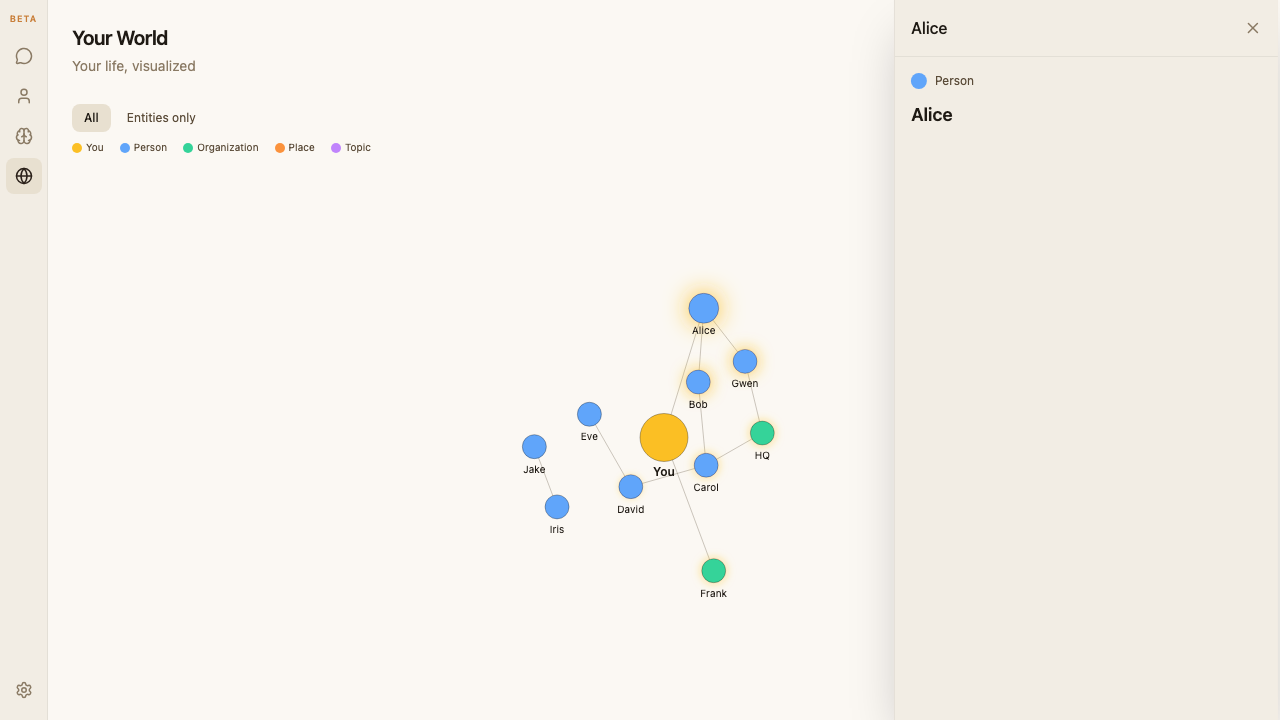
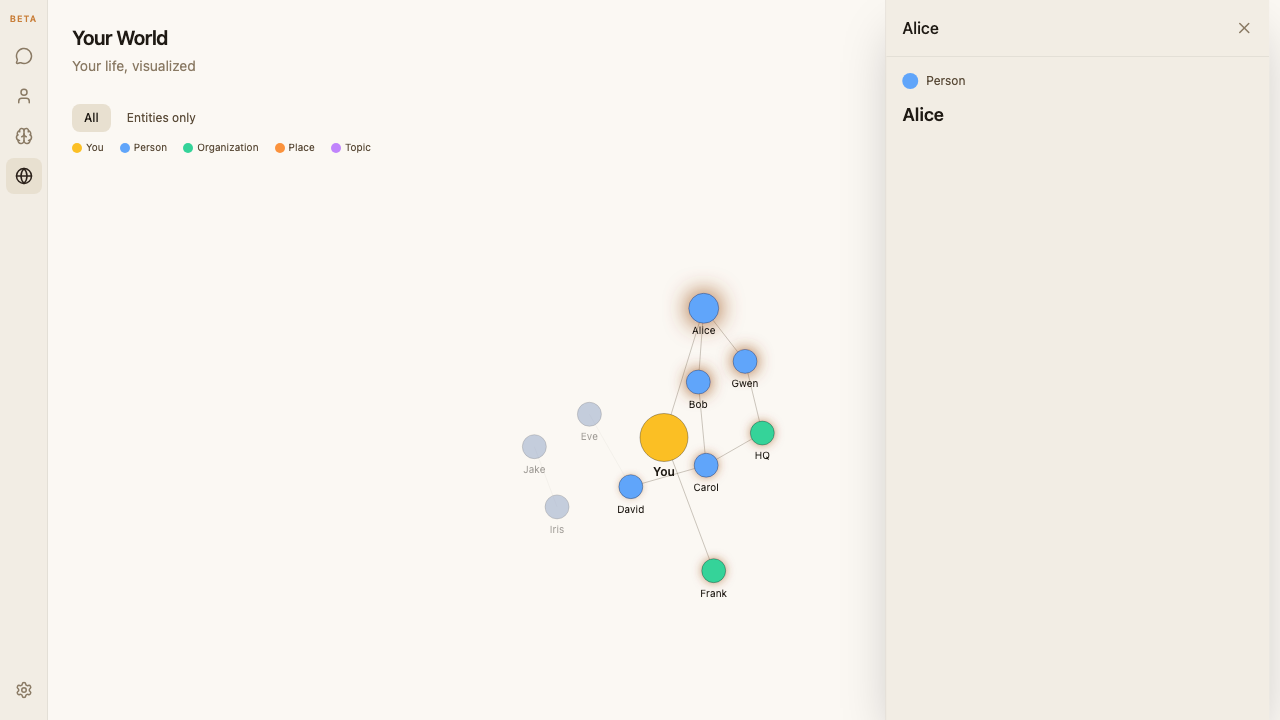
feat(world): make glow pop — theme-aware color + dim non-highlighted nodes
Feedback on first F4 pass (641b176):

  1. Light-mode (warm cream vault): yellow #fbbf24 glow was invisible
     on the cream background. Fix: added --graph-glow-color CSS var
     with a dark amber (#92400e / amber-800) override in
     vault-theme-warm.css. Dark mode keeps the bright yellow. ForceGraph
     reads the var at filter-setup time via getComputedStyle so both
     themes get an appropriate high-contrast halo.

  2. Dark-mode: highlighted nodes needed more separation from the rest
     of the graph — the additive glow alone didn't jump. Fix: added a
     dim FILTER (feColorMatrix saturate 0.35) + reduced opacity (0.5)
     on all non-highlighted nodes when a highlight is active. Colors
     still read as their hue (blue is still blue, orange still orange)
     but visibly step back so the lit subgraph pops. Labels dim to 0.4
     opacity; edges dim to 15% of their base stroke-opacity unless
     BOTH endpoints are in the lit cluster (edge-inside-cluster stays
     bright).

  DIM_STATE lives alongside GLOW_TIERS in graph-highlight.js — tunable
  in one place. "you" is never dimmed / never gets a filter regardless
  of highlight state.

Files:

  src/styles/vault-theme-warm.css
    Add --graph-glow-color: #92400e (amber-800) for cream backdrop.

  src/lib/graph-highlight.js
    New exports: DIM_FILTER_ID, DIM_STATE ({saturation, opacity,
    labelOpacity, edgeOpacityMultiplier}).

  src/components/vault/world/ForceGraph.jsx
[…]

diff --git a/src/components/vault/world/ForceGraph.jsx b/src/components/vault/world/ForceGraph.jsx
@@ -4,7 +4,7 @@ import { select } from 'd3-selection'
 import { zoom as d3Zoom, zoomIdentity } from 'd3-zoom'
 import { forceSimulation, forceManyBody, forceCenter, forceCollide, forceLink, forceX, forceY } from 'd3-force'
 import { drag as d3Drag } from 'd3-drag'
-import { glowTierForDistance, GLOW_TIERS, GLOW_COLOR } from '../../../lib/graph-highlight'
+import { glowTierForDistance, GLOW_TIERS, GLOW_COLOR, DIM_FILTER_ID, DIM_STATE } from '../../../lib/graph-highlight'
 import { computeNodeRadius } from '../../../lib/graph-node-size'
 
 const TYPE_COLORS = {
@@ -55,11 +55,20 @@ export default function ForceGraph({ nodes, edges, onNodeClick, width, height, h
     const svg = select(svgRef.current)
     svg.selectAll('*').remove()
 
-    // ── SVG <defs> with drop-shadow glow filters, one per highlight tier.
-    // Tier 0 = clicked node (brightest, largest halo); tier 3 = 3° neighbour
-    // (subtle). No opacity or dimming anywhere — non-highlighted nodes just
-    // render without a filter so the rest of the graph stays fully legible.
+    // ── SVG <defs> with two families of filters:
+    //   1. Drop-shadow glow, one per highlight tier — applied to the
+    //      clicked node + its 1° / 2° / 3° neighbours. Glow color reads
+    //      --graph-glow-color from the active theme (yellow on dark
+    //      navy, deep amber on warm cream) so the halo pops on both.
+    //   2. A single "dim" filter applied to every non-highlighted node
+    //      when a highlight is active — desaturates the fill so the
+    //      graph visibly steps back and the glowing subgraph pops.
+    //      Non-highlighted nodes also get their opacity reduced (in the
+    //      highlight useEffect) for extra separation.
     const defs = svg.append('defs')
+    const glowColor = (
+      getComputedStyle(svgRef.current).getPropertyValue('--graph-glow-color').trim() || GLOW_COLOR
+    )
     GLOW_TIERS.forEach((tier) => {
       const filter = defs.append('filter')
         .attr('id', tier.id)
@@ -68,9 +77,17 @@ export default function ForceGraph({ nodes, edges, onNodeClick, width, height, h
       filter.append('feDropShadow')
         .attr('dx', 0).attr('dy', 0)
         .attr('stdDeviation', tier.stdDeviation)
-        .attr('flood-color', GLOW_COLOR)
+        .attr('flood-color', glowColor)
         .attr('flood-opacity', tier.floodOpacity)
     })
+    // Dim filter for non-highlighted nodes: desaturates the fill so
+    // the color still reads as blue / orange / etc but visibly steps
+    // back from full saturation.
+    defs.append('filter')
+      .attr('id', DIM_FILTER_ID)
+      .append('feColorMatrix')
+      .attr('type', 'saturate')
+      .attr('values', String(DIM_STATE.saturation))
 
     // Root group for zoom/pan
     const g = svg.append('g')
@@ -194,20 +211,55 @@ export default function ForceGraph({ nodes, edges, onNodeClick, width, height, h
     }
   }, [nodes, edges, width, height, onNodeClick, onBackgroundClick])
 
-  // Highlight effect — glow-based, not opacity. Applies a drop-shadow
-  // <filter> to nodes within the highlight radius (tier by distance);
-  // everything else keeps its default appearance (no dim, no fade).
+  // Highlight effect — dual filter: glow for the clicked node + its
+  // 1° / 2° / 3° neighbours, dim for everything else so the lit
+  // subgraph visibly pops. When no highlight is active, every node
+  // returns to its native appearance (no filter, full opacity).
   useEffect(() => {
     if (!svgRef.current) return
     const svg = select(svgRef.current)
+    const active = highlightDistances != null
 
     svg.selectAll('circle')
       .attr('filter', function (d) {
-        // "you" is always visible in its native color — no glow even on click
-        // (though onNodeClick guards against clicking "you" anyway).
-        if (!d || d.id === 'you') return null
+        if (!d || d.id === 'you') return null   // "you" is never dimmed
+        if (!active) return null
         const tier = glowTierForDistance(highlightDistances, d.id)
-        return tier === null ? null : `url(#${GLOW_TIERS[tier].id})`
+        if (tier !== null) return `url(#${GLOW_TIERS[tier].id})`
+        return `url(#${DIM_FILTER_ID})`
+      })
+      .attr('opacity', function (d) {
+        if (!d || d.id === 'you') return 1
+        if (!active) return 1
+        const tier = glowTierForDistance(highlightDistances, d.id)
+        return tier === null ? DIM_STATE.opacity : 1
+      })
+
+    // Labels + edges also step back so the lit subgraph reads as a
+    // clean cluster. Labels: opacity only (glow on text looks messy).
+    // Edges: dim to a fraction of their normal stroke-opacity unless
+    // BOTH endpoints are in the highlight radius (edge-inside-cluster).
+    svg.selectAll('text')
+      .attr('opacity', function (d) {
+        if (!d || d.id === 'you') return 1
+        if (!active) return 1
+        const tier = glowTierForDistance(highlightDistances, d.id)
+        return tier === null ? DIM_STATE.labelOpacity : 1
+      })
+
+    svg.selectAll('line')
+      .attr('stroke-opacity', function (d) {
+        const baseStrength = d?.strength || 0.3
+        const baseOpacity = Math.min(baseStrength * 2, 0.6)
+        if (!active) return baseOpacity
+        const sId = d?.source && (d.source.id ?? d.source)
+        const tId = d?.target && (d.target.id ?? d.target)
+        const sTier = glowTierForDistance(highlightDistances, sId)
+        const tTier = glowTierForDistance(highlightDistances, tId)
+        // Both endpoints inside the highlight radius → full base opacity.
+        // Otherwise dim so the lit subgraph reads as a distinct cluster.
+        if (sTier !== null && tTier !== null) return baseOpacity
+        return baseOpacity * DIM_STATE.edgeOpacityMultiplier
       })
   }, [highlightDistances])
 

diff --git a/e2e/tests/f4-world-highlight.spec.js b/e2e/tests/f4-world-highlight.spec.js
@@ -54,19 +54,18 @@ test.describe('Feature 4 — world node glow highlight', () => {
     )
   })
 
-  test('SVG defs include a glow filter per tier', async ({ page }) => {
+  test('SVG defs include a glow filter per tier + a dim filter', async ({ page }) => {
     test.setTimeout(60_000)
     await gotoVault(page, '/vault/world')
     await page.waitForSelector('svg circle[data-node-type="person"]', { timeout: 15_000 })
 
-    // Four tiers: node-glow-0 (clicked) through node-glow-3 (3° neighbour)
-    for (const id of ['node-glow-0', 'node-glow-1', 'node-glow-2', 'node-glow-3']) {
+    for (const id of ['node-glow-0', 'node-glow-1', 'node-glow-2', 'node-glow-3', 'node-dim']) {
       const el = page.locator(`svg defs #${id}`)
       await expect(el).toHaveCount(1)
     }
   })
 
-  test('click node → glow filter applied to clicked + neighbours; graph stays fully opaque', async ({ page }) => {
+  test('click node → glow on lit subgraph + dim filter on the rest so highlight pops', async ({ page }) => {
     test.setTimeout(60_000)
     await gotoVault(page, '/vault/world')
     await page.waitForSelector('svg circle[data-node-type="person"]', { timeout: 15_000 })
@@ -78,30 +77,33 @@ test.describe('Feature 4 — world node glow highlight', () => {
     const panel = page.locator('[data-testid="world-node-panel"]')
     await expect(panel).toBeVisible({ timeout: 5_000 })
 
-    // No dim backdrop
+    // No dim backdrop overlay — graph stays visible behind the panel.
     expect(await page.locator('div.bg-black\\/40').count()).toBe(0)
 
     await page.waitForTimeout(200)
 
-    // At least one circle should carry a glow filter (the clicked node
-    // and its ≤3° neighbours). At least one should NOT have any filter
-    // (a 4+ hop node or a disconnected island).
-    const filters = await page.$$eval('svg circle[data-node-type]', (circles) =>
-      circles.map((c) => c.getAttribute('filter'))
+    // Highlighted subgraph: nodes in the lit cluster carry a glow filter.
+    // Non-highlighted: dim filter (desaturated) + reduced opacity so the
+    // lit cluster pops visually. "you" carries no filter — always native.
+    const state = await page.$$eval('svg circle[data-node-type]', (circles) =>
+      circles.map((c) => ({
+        type: c.getAttribute('data-node-type'),
+        filter: c.getAttribute('filter'),
+        opacity: parseFloat(c.getAttribute('opacity') ?? '1'),
+      }))
     )
-    const glowing = filters.filter((f) => f && f.includes('node-glow-'))
-    const plain = filters.filter((f) => !f)
-    expect(glowing.length, 'at least one node should have a glow').toBeGreaterThanOrEqual(1)
-    expect(plain.length, 'at least one node should have no filter').toBeGreaterThanOrEqual(1)
+    const glowing = state.filter((s) => s.filter && s.filter.includes('node-glow-'))
+    const dimmed = state.filter((s) => s.filter && s.filter.includes('node-dim'))
+    const you = state.find((s) => s.type === 'you')
 
-    // Crucial revert-check: no circle should have opacity < 1 (opacity
-    // ramp was reverted; only glow filters distinguish highlighted nodes).
-    const opacities = await page.$$eval('svg circle[data-node-type]', (circles) =>
-      circles.map((c) => parseFloat(c.getAttribute('opacity') ?? '1'))
-    )
-    for (const o of opacities) {
-      expect(o, 'no circle should be dimmed — highlight is additive only').toBeGreaterThanOrEqual(1)
-    }
+    expect(glowing.length, 'at least the clicked node should glow').toBeGreaterThanOrEqual(1)
+    expect(dimmed.length, 'nodes outside the 3-hop radius should be dimmed').toBeGreaterThanOrEqual(1)
+    expect(you?.filter, '"you" should never carry a filter').toBeNull()
+
+    // Glowing nodes stay fully opaque; dimmed nodes fade to the DIM_STATE
+    // opacity floor so the lit cluster reads distinctly.
+    for (const g of glowing) expect(g.opacity).toBeGreaterThanOrEqual(1)
+    for (const d of dimmed) expect(d.opacity, 'dimmed nodes fade to signal off-cluster').toBeLessThan(1)
 
     await page.screenshot({ path: 'e2e/screenshots/f4-world-glow-active.png', fullPage: false })
   })
@@ -122,10 +124,17 @@ test.describe('Feature 4 — world node glow highlight', () => {
     await expect(page.locator('[data-testid="world-node-panel"]')).toBeHidden({ timeout: 3_000 })
     await page.waitForTimeout(200)
 
-    const anyFilter = await page.$$eval('svg circle[data-node-type]', (circles) =>
-      circles.some((c) => (c.getAttribute('filter') || '').includes('node-glow-'))
+    // After clearing: no glow, no dim, everything back to full opacity.
+    const state = await page.$$eval('svg circle[data-node-type]', (circles) =>
+      circles.map((c) => ({
+        filter: c.getAttribute('filter'),
+        opacity: parseFloat(c.getAttribute('opacity') ?? '1'),
+      }))
     )
-    expect(anyFilter, 'no glow filter should remain after clearing').toBe(false)
+    for (const s of state) {
+      expect(s.filter, 'no filter should remain after clearing').toBeFalsy()
+      expect(s.opacity, 'all opacity should reset to 1').toBeGreaterThanOrEqual(1)
+    }
   })
 
   test('node radius scales by mention_count when enriched from cache', async ({ page }) => {

diff --git a/src/lib/graph-highlight.js b/src/lib/graph-highlight.js
@@ -23,8 +23,25 @@ export const GLOW_TIERS = [
 ]
 
 // Warm yellow — matches the "you" node palette so the highlight reads
-// as "in your orbit." Change here to retint the whole glow ramp.
+// as "in your orbit." Used as the DARK-MODE default; the warm/light
+// theme overrides via --graph-glow-color in vault-theme-warm.css.
+// ForceGraph reads the CSS var at filter-setup time; this is the
+// fallback when the var is missing.
 export const GLOW_COLOR = '#fbbf24'
+
+// Non-highlighted node/label/edge treatment when a highlight is
+// active. Nodes get their saturation cut (fill still reads as the
+// original hue, just muted) AND their opacity reduced — the pair is
+// what makes the glowing subgraph pop instead of feeling like a subtle
+// tint. Kept as a plain object here so a downstream consumer can
+// probe / test the exact values.
+export const DIM_FILTER_ID = 'node-dim'
+export const DIM_STATE = {
+  saturation: 0.35,          // feColorMatrix saturate — 0=grey, 1=full
+  opacity: 0.5,              // circle opacity when dimmed
+  labelOpacity: 0.4,         // text opacity when dimmed
+  edgeOpacityMultiplier: 0.15, // dim edges to 15% of their strength-derived base
+}
 
 // Undirected BFS from a source node over the raw edges array. Returns
 // a Map<nodeId, distance>. Distance to source is 0. Walks out to

diff --git a/src/styles/vault-theme-warm.css b/src/styles/vault-theme-warm.css
@@ -113,4 +113,10 @@
    * bright text off the navy panel, which is the exact opposite need. */
   --graph-label-color: var(--text-primary);
   --graph-label-shadow: none;
+
+  /* World highlight glow (F4). Default dark-mode glow is bright yellow
+   * (#fbbf24) which vanishes on warm cream. Override to a deep amber
+   * that stays on-palette but has enough contrast against cream to
+   * read as a distinct halo around highlighted nodes. */
+  --graph-glow-color: #92400e;  /* amber-800 — deep enough to sit on cream */
 }